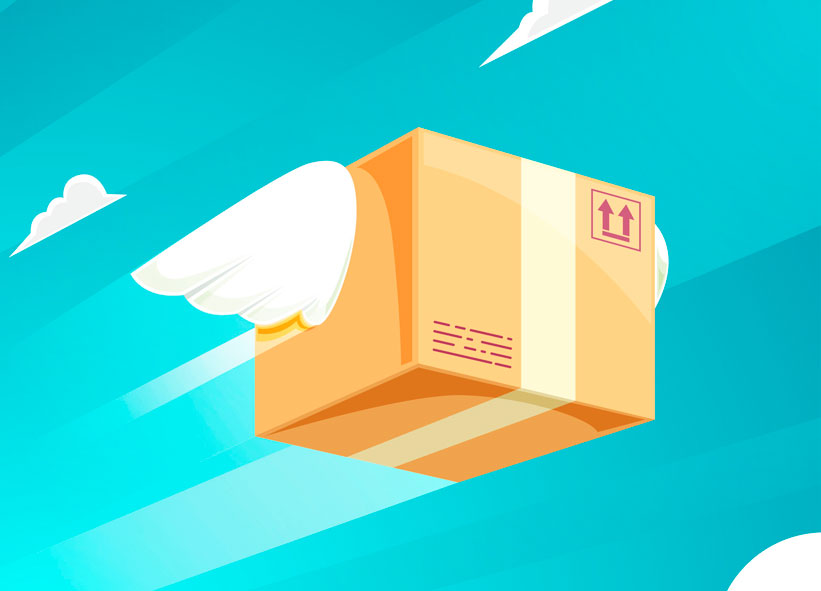
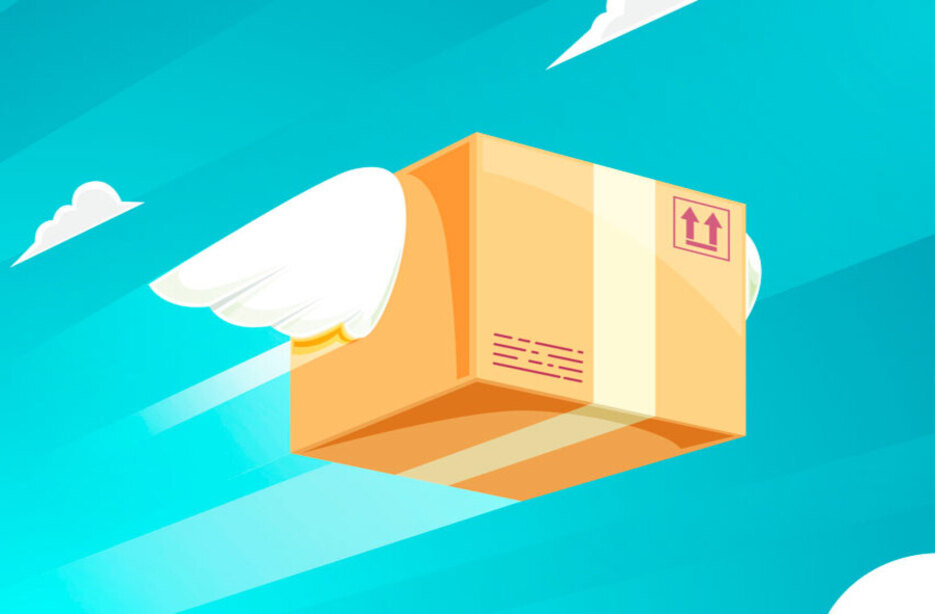
optimizacion de imagenes

diff --git a/pages/nosotros-reparamos.html b/pages/nosotros-reparamos.html
@@ -91,14 +91,14 @@
           </div>
         </article>
         <article class="card col-5 col-xl-3">
-          <img src="../img/cotizacion.avif" class="img-fluid" alt="segundo paso, cotizacion" data-aos="flip-left">
+          <img src="../img/cotizacion.png" class="img-fluid" alt="segundo paso, cotizacion" data-aos="flip-left">
           <div class="card-body">
             <h2 class="card-title roboto">Cotizacion</h2>
             <p class="card-text montserrat">Revisamos tu dispositivo en el dia y ¡Te lo cotizamos sin costo!</p>
           </div>
         </article>
         <article class="card col-5 col-xl-3">
-          <img src="../img/reparacion.webp" class="card-img-top" alt="tercer paso, reparacion" data-aos="flip-left">
+          <img src="../img/reparacion.png" class="card-img-top" alt="tercer paso, reparacion" data-aos="flip-left">
           <div class="card-body">
             <h3 class="card-title roboto">Reparacion</h3>
             <p class="card-text montserrat">Una vez aceptado el presupusto te reparamos tu dispositivo ¡En 24hs!</p>
